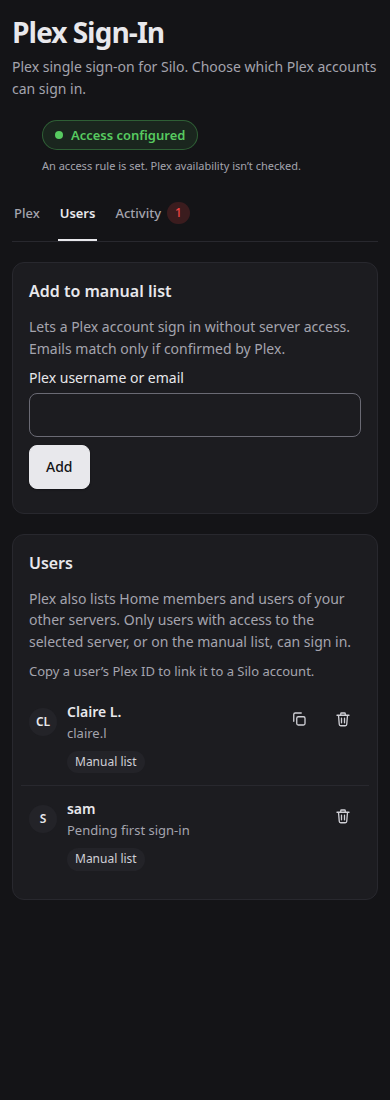
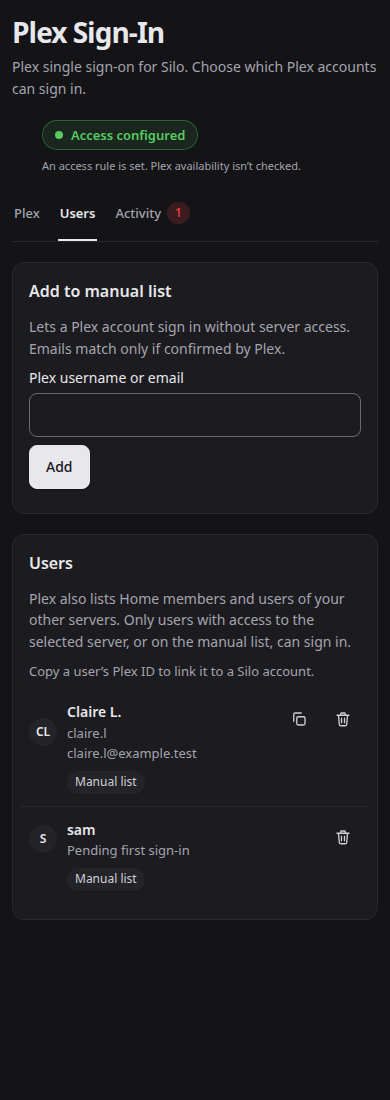
fix: cap connect flows and refresh UI screenshots

diff --git a/provider/preview_test.go b/provider/preview_test.go
@@ -59,11 +59,15 @@ func TestWritePreviews(t *testing.T) {
 			write(filepath.Join("signin", string(lang)+"-"+name+".html"), renderPage(http.StatusOK, "signin.html", page).GetBody())
 		}
 		p := New()
-		store := withAccess(t, p, Settings{Manual: []ManualEntry{{Input: "claire.l", UUID: "fixture-claire", Title: "Claire L.", Username: "claire.l"}, {Input: "sam"}}}, "")
+		store := withAccess(t, p, Settings{Manual: []ManualEntry{
+			{Input: "claire.l", UUID: "fixture-claire", Title: "Claire L.", Username: "claire.l", Email: "claire.l@example.test"},
+			{Input: "sam"},
+		}}, "")
 		now := time.Now().UTC()
 		store.put(t, connectionKey, plexConnection{Version: connectionVersion, ServerMachineID: "a1b2c3d4e5f6f9", ServerName: "Home Cinema", UpdatedAt: now.Add(-30 * time.Minute).Format(time.RFC3339)})
 		store.put(t, activityKey, []ActivityEntry{
 			{Ref: "7KQ4M2", At: now.Add(-10 * time.Minute), Outcome: outcomeRefuse, Reason: ReasonNotAllowed, Username: "camille", Title: "Camille P.", UUID: "fixture-camille"},
+			{Ref: "Z2W4N6", At: now.Add(-20 * time.Minute), Outcome: outcomeRefuse, Reason: ReasonNotAllowed, Username: "claire.l", Title: "Claire L.", UUID: "fixture-claire"},
 			{Ref: "A6Y4W3", At: now.Add(-time.Hour), Outcome: outcomeAllow, Rule: RuleManual, Username: "claire.l", Title: "Claire L.", UUID: "fixture-claire"},
 			{Ref: "Q8M3T5", At: now.Add(-26 * time.Hour), Outcome: outcomeRefuse, Reason: ReasonExpired},
 		})

diff --git a/provider/finder_test.go b/provider/finder_test.go
@@ -5,8 +5,10 @@ import (
 	"net/http"
 	"net/http/httptest"
 	"net/url"
+	"strconv"
 	"strings"
 	"testing"
+	"time"
 
 	pluginv1 "github.com/Silo-Server/silo-plugin-sdk/pkg/pluginproto/silo/plugin/v1"
 )
@@ -106,6 +108,34 @@ func TestFinderPageIsSideEffectFreeAndRoutesRequireAdmin(t *testing.T) {
 	}
 	if pinCalls != 0 || len(p.finders) != 0 {
 		t.Fatal("GET finder page must be side-effect free; expected no PIN or pending flow")
+	}
+}
+
+func TestFinderRefusesBeyondTheFlowLimit(t *testing.T) {
+	pinCalls := 0
+	plex := httptest.NewServer(http.HandlerFunc(func(w http.ResponseWriter, r *http.Request) {
+		if r.URL.Path == "/api/v2/pins" {
+			pinCalls++
+			_, _ = w.Write([]byte(`{"id":3,"code":"FINDCODE"}`))
+			return
+		}
+		http.NotFound(w, r)
+	}))
+	t.Cleanup(plex.Close)
+	p := testProvider(plex)
+	p.mu.Lock()
+	p.finders = make(map[string]*finderFlow)
+	for i := 0; i < maxFlows; i++ {
+		p.finders[strconv.Itoa(i)] = &finderFlow{expiresAt: time.Now().Add(time.Minute)}
+	}
+	p.mu.Unlock()
+
+	resp := finderPost(t, p, finderStartPath, adminHeaders("1"), nil)
+	if resp.GetStatusCode() != http.StatusSeeOther || !strings.Contains(resp.GetHeaders()["Location"], "notice=busy") {
+		t.Fatalf("connect flow accepted beyond the limit: %d %q", resp.GetStatusCode(), resp.GetHeaders()["Location"])
+	}
+	if pinCalls != 0 {
+		t.Fatal("no Plex PIN must be requested once the flow budget is full")
 	}
 }
 

diff --git a/provider/provider.go b/provider/provider.go
@@ -125,7 +125,7 @@ func (p *Provider) InitAuthorize(ctx context.Context, req *pluginv1.InitAuthoriz
 	}
 	p.mu.Lock()
 	p.pruneFlowsLocked(time.Now())
-	full := len(p.flows)+p.pendingCreates >= maxFlows
+	full := p.flowLimitReachedLocked()
 	if !full {
 		p.pendingCreates++ // reserve capacity before the network call
 	}
@@ -466,4 +466,12 @@ func (p *Provider) pruneFlowsLocked(now time.Time) {
 			delete(p.flows, id)
 		}
 	}
+}
+
+// flowLimitReachedLocked reports whether another Plex flow would exceed
+// maxFlows. Sign-in and administrator connect flows share the budget, and
+// pendingCreates reserves slots for calls already talking to Plex. p.mu must
+// be held.
+func (p *Provider) flowLimitReachedLocked() bool {
+	return len(p.flows)+len(p.finders)+p.pendingCreates >= maxFlows
 }

diff --git a/provider/finder.go b/provider/finder.go
@@ -137,7 +137,7 @@ func (p *Provider) finderCreate(ctx context.Context, viewer httproute.Viewer, re
 	}
 	p.mu.Lock()
 	p.pruneFlowsLocked(time.Now())
-	full := len(p.flows)+p.pendingCreates >= maxFlows
+	full := p.flowLimitReachedLocked()
 	if !full {
 		p.pendingCreates++
 	}
